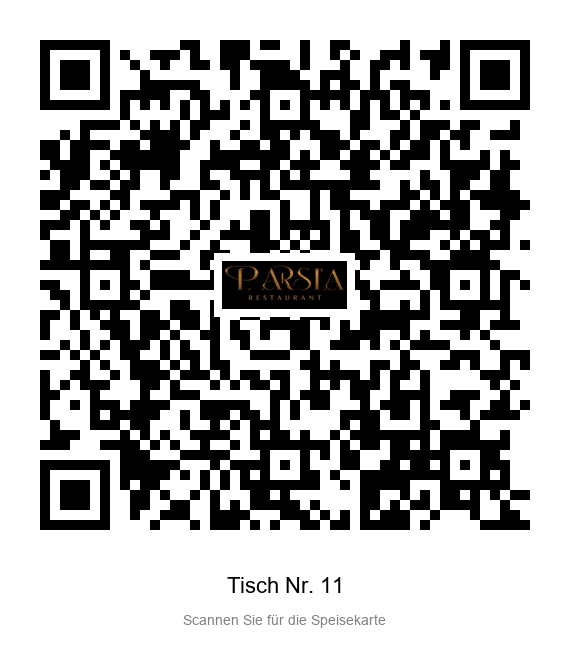
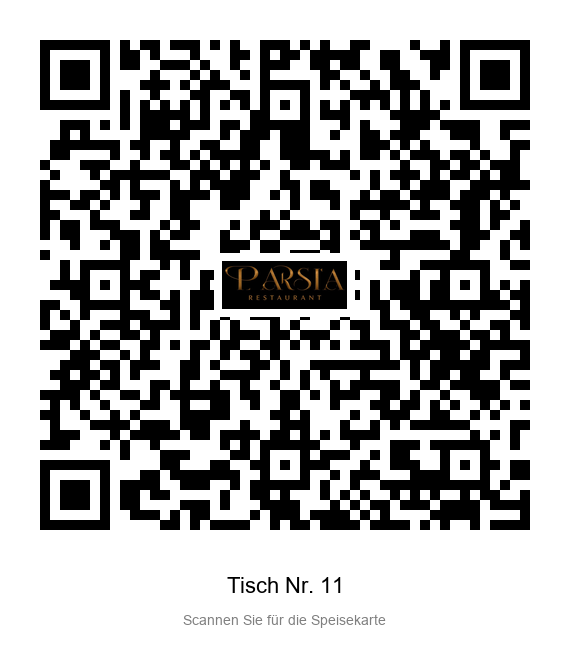
add new qrcodes

Changed region(s): [[0.0596, 0.0615, 0.9544, 0.8308]]

diff --git a/generate_qr.py b/generate_qr.py
@@ -8,7 +8,7 @@ import os
 base_url = "https://parsia-restaurant.onrender.com/frontend/menu.html?table="
 tables = 16
 output_folder = "qrcodes"
-logo_path = "logo.jpg"
+logo_path = "frontend/images/logo/logo.jpg"
 
 os.makedirs(output_folder, exist_ok=True)
 
